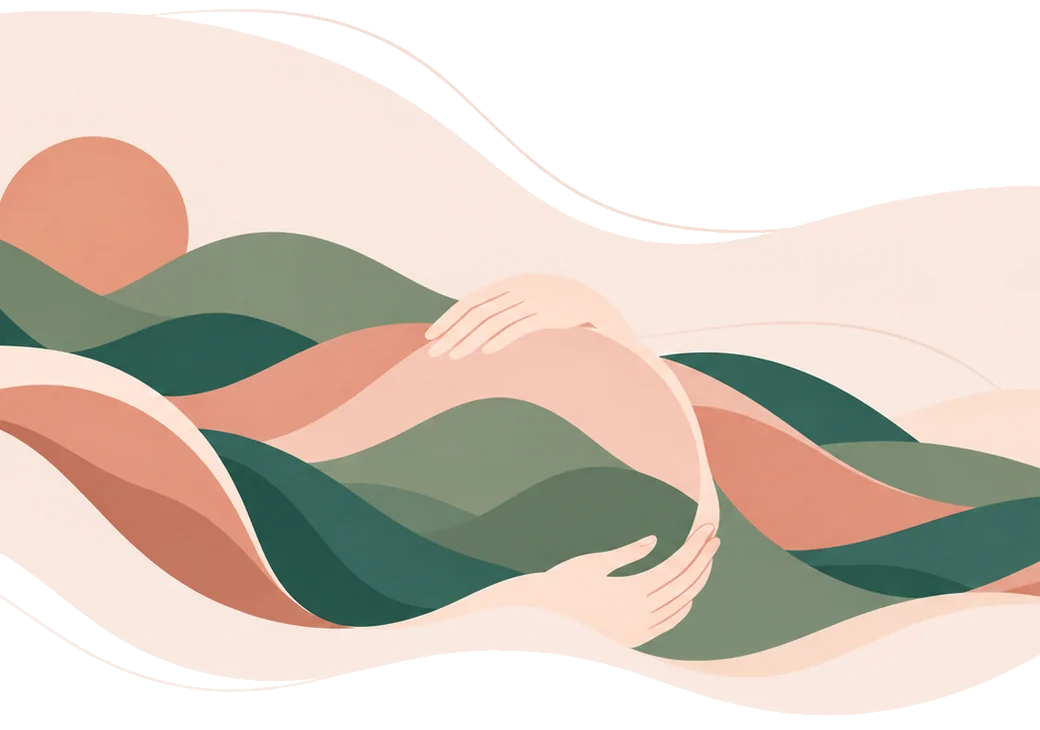
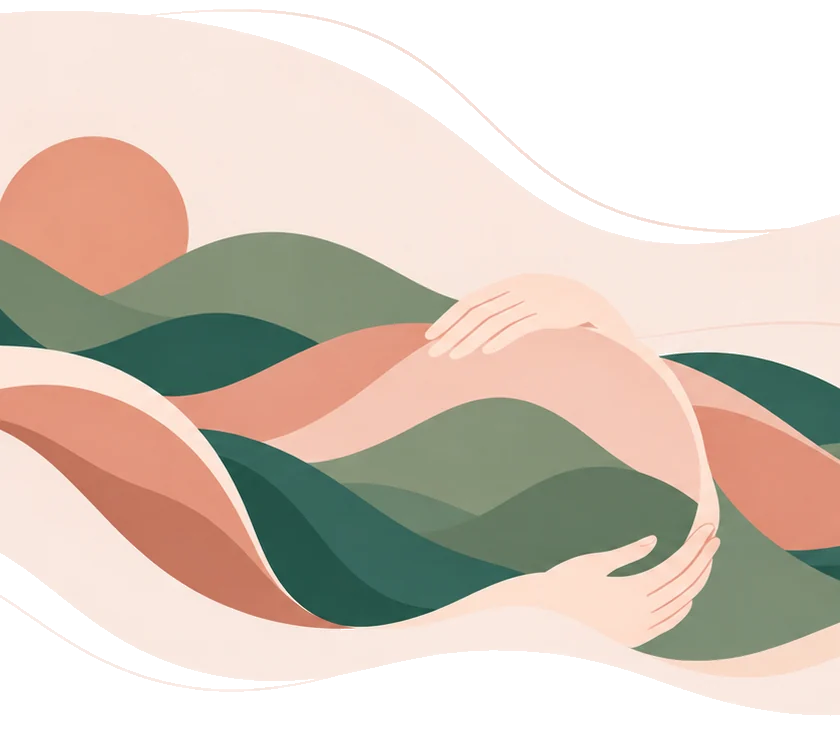
Crop the cover further from the right to leave space beside the text.

diff --git a/styles.css b/styles.css
@@ -257,7 +257,7 @@ p { margin: 0 0 1em; }
 }
 .frame-hero {
   aspect-ratio: auto;
-  max-width: 820px;
+  max-width: 560px;
   padding: 0;
   background: none;
 }
@@ -340,7 +340,7 @@ p { margin: 0 0 1em; }
   pointer-events: none;
 }
 .hero .container { position: relative; }
-.hero .split { grid-template-columns: .68fr 1.32fr; gap: 3rem; }
+.hero .split { grid-template-columns: .95fr 1fr; gap: 5rem; }
 .hero .lead { max-width: 30em; }
 
 .scroll-hint {
